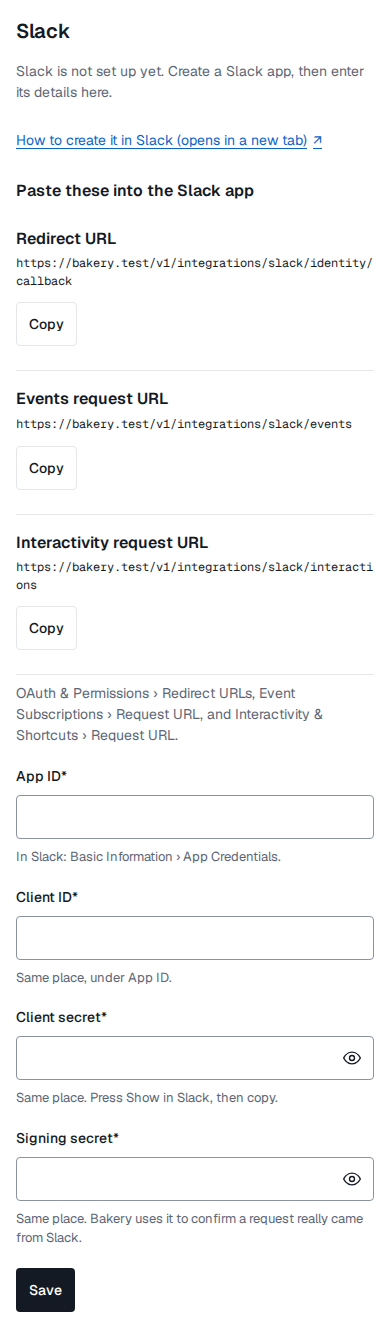
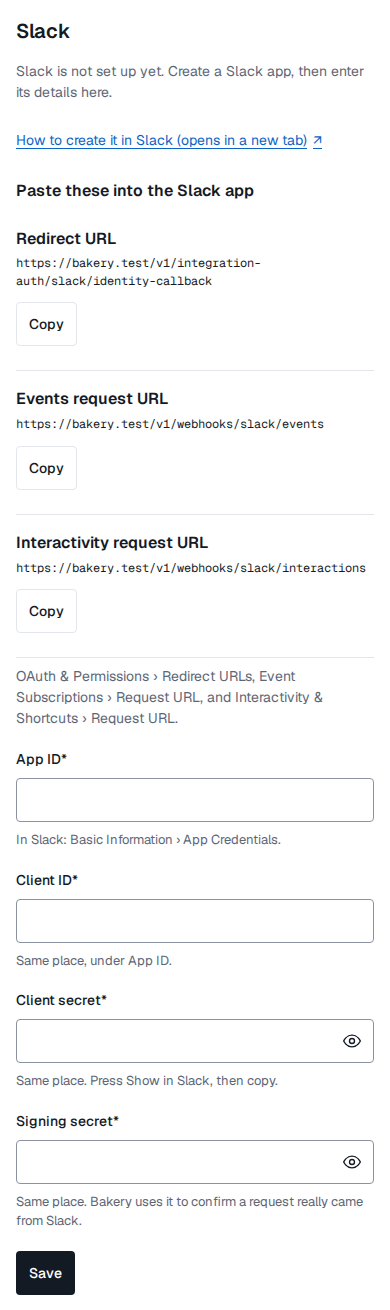
test(evidence): the replace, remove and removed stills at f19532ec

diff --git a/README.md b/README.md
@@ -1,77 +1,140 @@
 # Stills for the Slack app section (#415)
 
-Head: `14f063eb` — the commit the stills were taken at.
+Head: `f19532ec` — the commit the code stills were taken at.
 
-Twelve stills: three states (not set up, set up and accepted, sign-in refused),
-two themes, two viewports. Each is the Slack section of
-`/settings/installation/integrations`, clipped with padding around it.
+Twenty-four stills: six states, two themes, two viewports. Each is the
+Slack section of `/settings/installation/integrations`, clipped with padding
+around it, except the Remove dialog, which is the viewport because a dialog
+is its own layer.
 
-How they were made: `apps/web/tests/slack-app-stills.spec.ts` at that head, run
-from `apps/web` with
+The six states:
+
+- **unset**: nothing saved, the three addresses Slack asks for.
+- **set**: saved, with the sign-in row saying Slack accepted the details and
+  the requests row naming the last delivery.
+- **refused-check**: saved, with the sign-in row saying Slack does not
+  recognise the client ID.
+- **replace-form**: Replace details pressed, both ids filled in, the secrets
+  empty with the day they were saved beside them.
+- **remove-dialog**: Remove pressed, the confirmation open.
+- **removed**: removed, the banner above the empty form.
+
+How they were made: `apps/web/tests/slack-app-stills.spec.ts` at that head,
+run from `apps/web` with
 
 ```
-BAKERY_EVIDENCE_DIR=/tmp/stills-415c pnpm exec playwright test \
+BAKERY_EVIDENCE_DIR=/tmp/stills-415d pnpm exec playwright test \
   tests/slack-app-stills.spec.ts --project=desktop --workers=1 --retries=1
 ```
 
-It reuses the screen's own fixtures (`tests/helpers/installation-integrations-fixtures.ts`),
-so a still shows a state `installation-integrations.spec.ts` also asserts. Every
-still is written only after the section says what the design promises, so a
-blank page or a spinner cannot pass as evidence.
+It reuses the screen's own fixtures
+(`tests/helpers/installation-integrations-fixtures.ts`), so a still shows a
+state `installation-integrations.spec.ts` also asserts. Every still is
+written only after the section says what the design promises, so a blank page
+or a spinner cannot pass as evidence. The addresses shown are the ones the
+server serves (`/v1/integration-auth/slack/identity-callback`,
+`/v1/webhooks/slack/events`, `/v1/webhooks/slack/interactions`).
 
-What these stills do not prove: that Slack answers a real request. No Slack call
-is made; the two status rows show the words the design specifies for each answer,
-from the fixture, not from an answer.
+What these stills do not prove: that Slack answers a real request, or that a
+post is delivered. No Slack call is made; the status rows show the words the
+design specifies for each answer, from the fixture, not from an answer.
 
-Missing states: the Remove dialog and the "details were removed" banner are not
-here. The design specifies both; the dialog and the banner are covered by tests
-in the same spec, and no still of them was taken before the head.
+Not here: the Account and security page's Slack row. That row needs a person's
+own link state, which no API serves yet; it arrives with the install and
+identity-linking slice.
 
 ### unset, light, desktop-1440x900
 
-![unset light desktop-1440x900](../../stills/415-slack/unset--light--desktop-1440x900.png)
+![unset light desktop-1440x900](stills/415-slack/unset--light--desktop-1440x900.png)
 
 ### unset, light, phone-390x844
 
-![unset light phone-390x844](../../stills/415-slack/unset--light--phone-390x844.png)
+![unset light phone-390x844](stills/415-slack/unset--light--phone-390x844.png)
 
 ### unset, dark, desktop-1440x900
 
-![unset dark desktop-1440x900](../../stills/415-slack/unset--dark--desktop-1440x900.png)
+![unset dark desktop-1440x900](stills/415-slack/unset--dark--desktop-1440x900.png)
 
 ### unset, dark, phone-390x844
 
-![unset dark phone-390x844](../../stills/415-slack/unset--dark--phone-390x844.png)
+![unset dark phone-390x844](stills/415-slack/unset--dark--phone-390x844.png)
 
 ### set, light, desktop-1440x900
 
-![set light desktop-1440x900](../../stills/415-slack/set--light--desktop-1440x900.png)
+![set light desktop-1440x900](stills/415-slack/set--light--desktop-1440x900.png)
 
 ### set, light, phone-390x844
 
-![set light phone-390x844](../../stills/415-slack/set--light--phone-390x844.png)
+![set light phone-390x844](stills/415-slack/set--light--phone-390x844.png)
 
 ### set, dark, desktop-1440x900
 
-![set dark desktop-1440x900](../../stills/415-slack/set--dark--desktop-1440x900.png)
+![set dark desktop-1440x900](stills/415-slack/set--dark--desktop-1440x900.png)
 
 ### set, dark, phone-390x844
 
-![set dark phone-390x844](../../stills/415-slack/set--dark--phone-390x844.png)
+![set dark phone-390x844](stills/415-slack/set--dark--phone-390x844.png)
 
 ### refused-check, light, desktop-1440x900
 
-![refused-check light desktop-1440x900](../../stills/415-slack/refused-check--light--desktop-1440x900.png)
+![refused-check light desktop-1440x900](stills/415-slack/refused-check--light--desktop-1440x900.png)
 
 ### refused-check, light, phone-390x844
 
-![refused-check light phone-390x844](../../stills/415-slack/refused-check--light--phone-390x844.png)
+![refused-check light phone-390x844](stills/415-slack/refused-check--light--phone-390x844.png)
 
 ### refused-check, dark, desktop-1440x900
 
-![refused-check dark desktop-1440x900](../../stills/415-slack/refused-check--dark--desktop-1440x900.png)
+![refused-check dark desktop-1440x900](stills/415-slack/refused-check--dark--desktop-1440x900.png)
 
 ### refused-check, dark, phone-390x844
 
-![refused-check dark phone-390x844](../../stills/415-slack/refused-check--dark--phone-390x844.png)
+![refused-check dark phone-390x844](stills/415-slack/refused-check--dark--phone-390x844.png)
 
+### replace-form, light, desktop-1440x900
+
+![replace-form light desktop-1440x900](stills/415-slack/replace-form--light--desktop-1440x900.png)
+
+### replace-form, light, phone-390x844
+
+![replace-form light phone-390x844](stills/415-slack/replace-form--light--phone-390x844.png)
+
+### replace-form, dark, desktop-1440x900
+
+![replace-form dark desktop-1440x900](stills/415-slack/replace-form--dark--desktop-1440x900.png)
+
+### replace-form, dark, phone-390x844
+
+![replace-form dark phone-390x844](stills/415-slack/replace-form--dark--phone-390x844.png)
+
+### remove-dialog, light, desktop-1440x900
+
+![remove-dialog light desktop-1440x900](stills/415-slack/remove-dialog--light--desktop-1440x900.png)
+
+### remove-dialog, light, phone-390x844
+
+![remove-dialog light phone-390x844](stills/415-slack/remove-dialog--light--phone-390x844.png)
+
+### remove-dialog, dark, desktop-1440x900
+
+![remove-dialog dark desktop-1440x900](stills/415-slack/remove-dialog--dark--desktop-1440x900.png)
+
+### remove-dialog, dark, phone-390x844
+
+![remove-dialog dark phone-390x844](stills/415-slack/remove-dialog--dark--phone-390x844.png)
+
+### removed, light, desktop-1440x900
+
+![removed light desktop-1440x900](stills/415-slack/removed--light--desktop-1440x900.png)
+
+### removed, light, phone-390x844
+
+![removed light phone-390x844](stills/415-slack/removed--light--phone-390x844.png)
+
+### removed, dark, desktop-1440x900
+
+![removed dark desktop-1440x900](stills/415-slack/removed--dark--desktop-1440x900.png)
+
+### removed, dark, phone-390x844
+
+![removed dark phone-390x844](stills/415-slack/removed--dark--phone-390x844.png)
